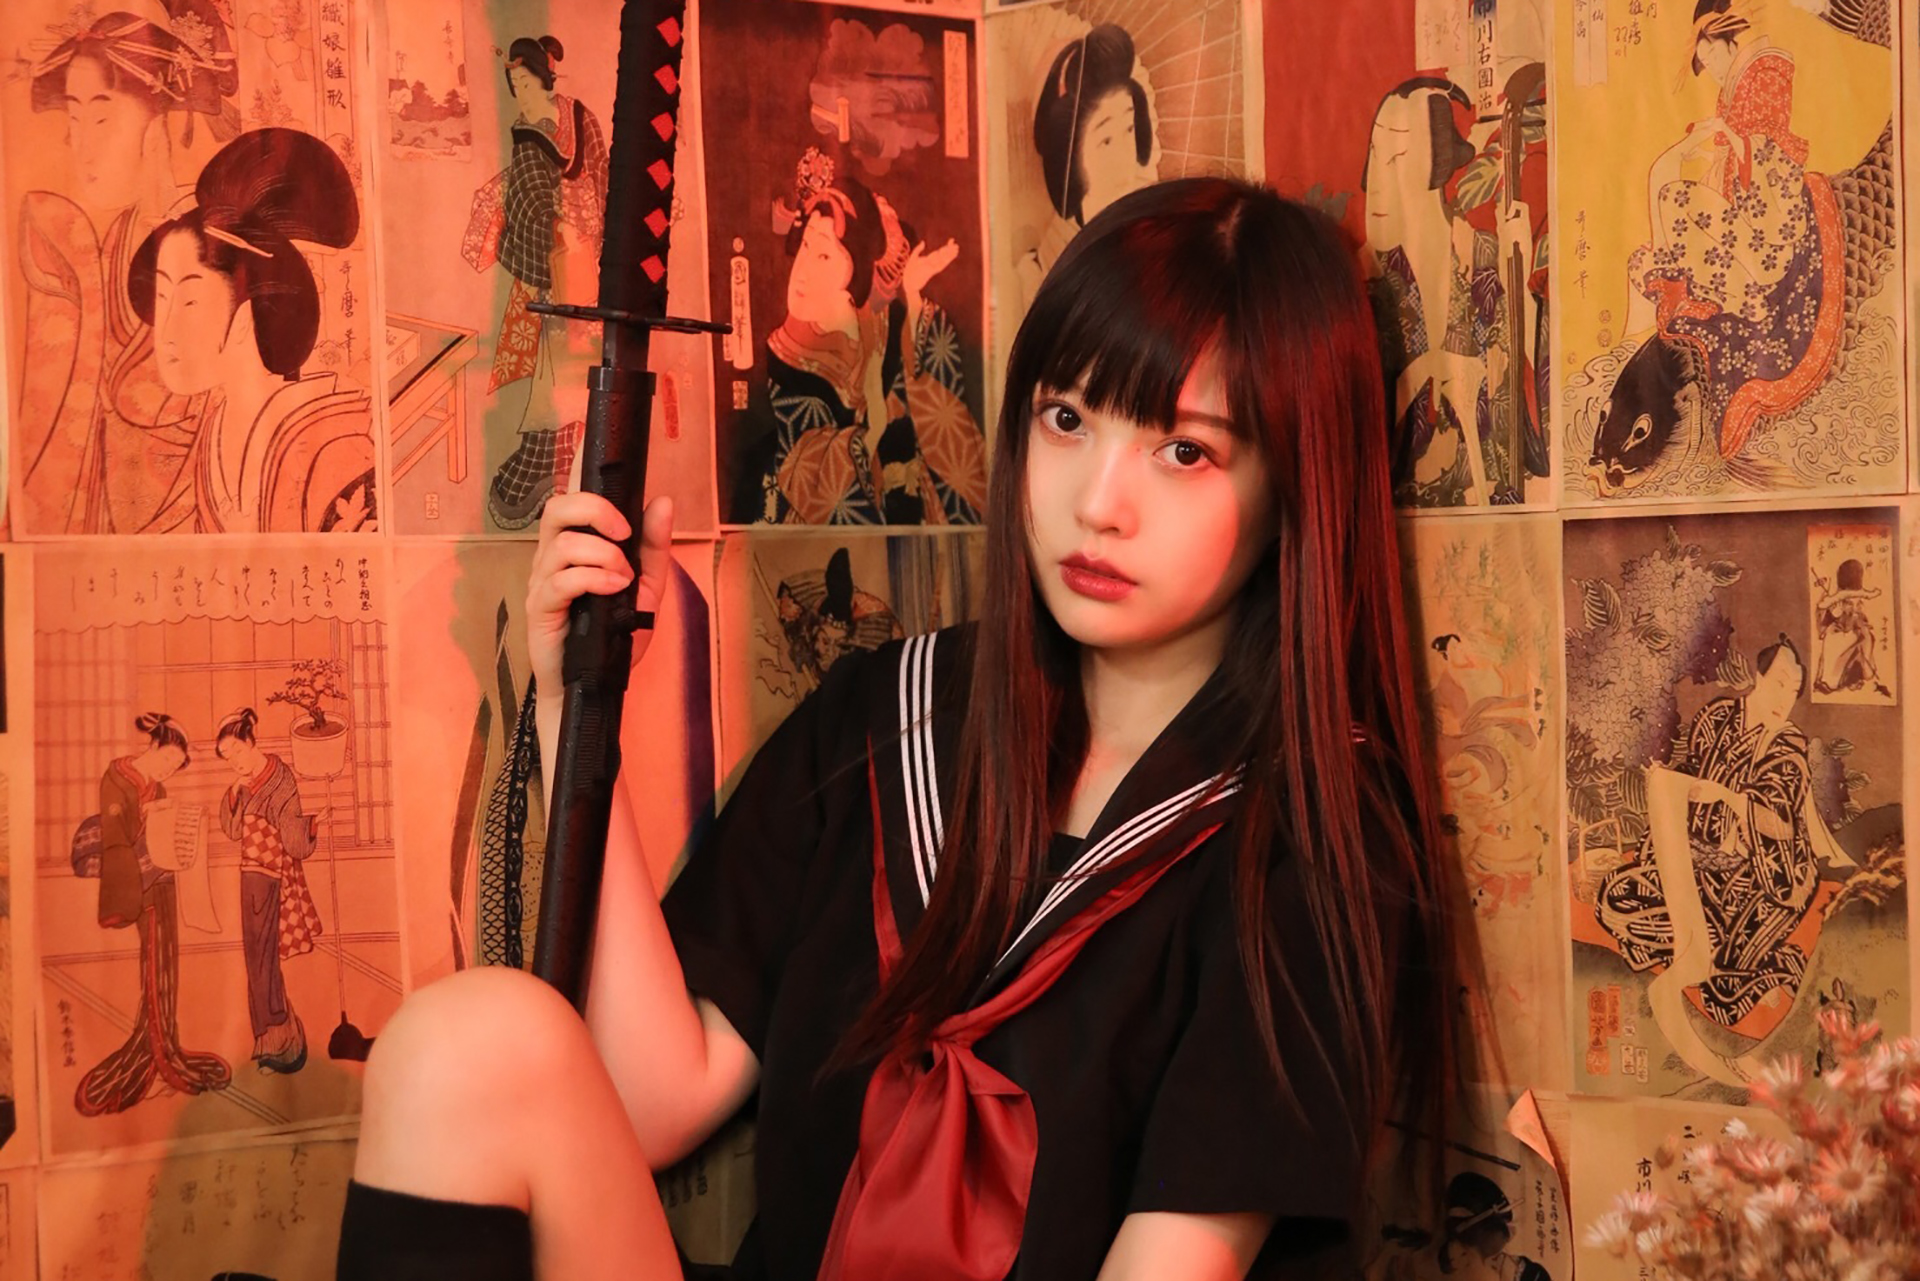
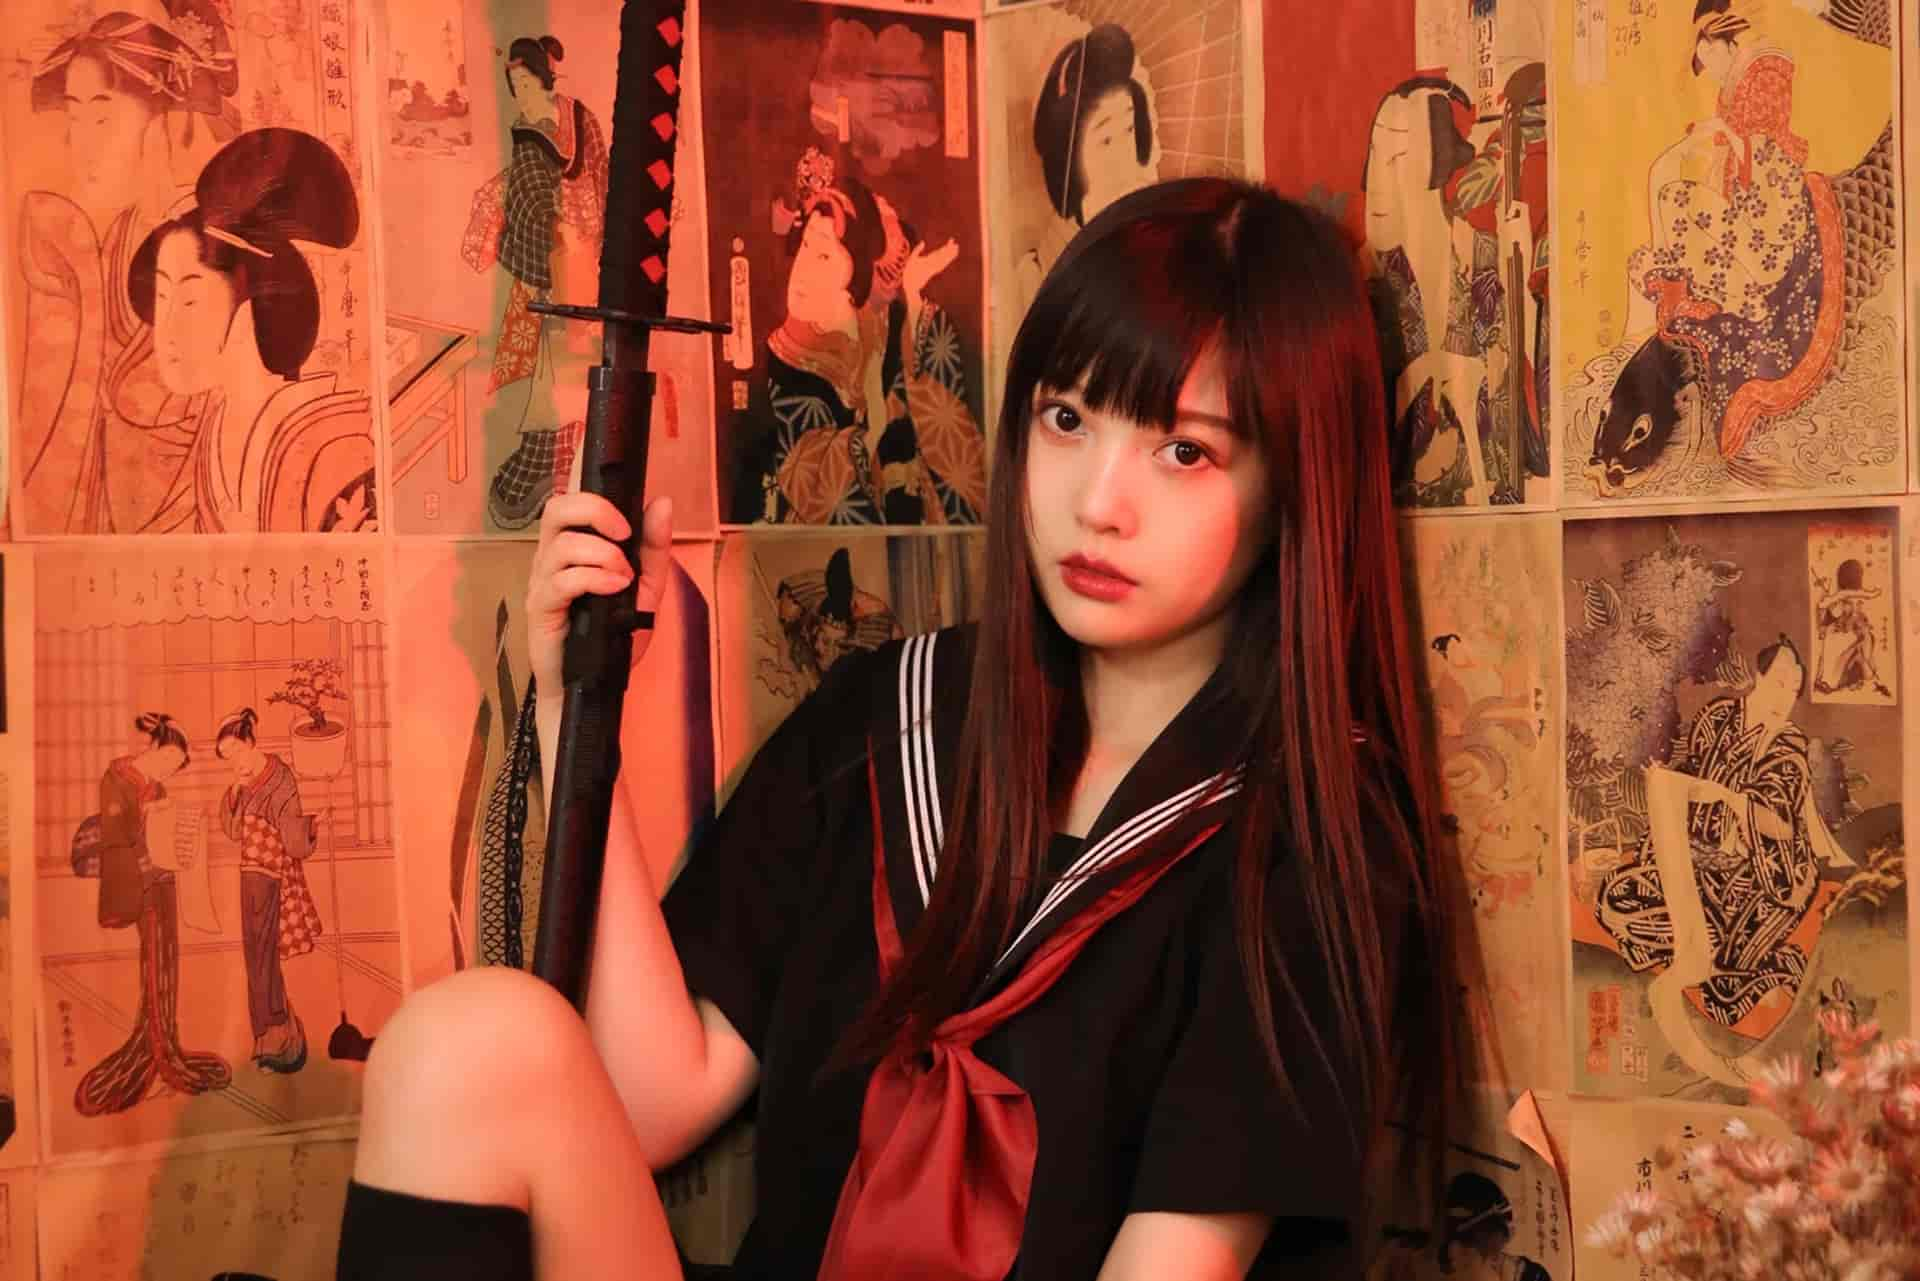
feat: 优化静态资源

Changed region(s): [[0.5625, 0.6557, 0.5938, 0.687]]

diff --git a/vite.config.ts b/vite.config.ts
@@ -2,14 +2,43 @@ import { defineConfig } from 'vite'
 import vue from '@vitejs/plugin-vue'
 import vitePluginRaw from 'vite-plugin-raw'
 import path from 'path'
+import viteImagemin from 'vite-plugin-imagemin'
 
 // https://vitejs.dev/config/
 export default defineConfig({
   base: './',
-  plugins: [vue(),
+  plugins: [
+    vue(),
     vitePluginRaw({
       match: /\.vue$/,
       exclude: [new RegExp(path.resolve(__dirname, './src'))]
-    })
-  ],
+    }),
+    viteImagemin({
+      gifsicle: {
+        optimizationLevel: 7,
+        interlaced: false,
+      },
+      optipng: {
+        optimizationLevel: 7,
+      },
+      mozjpeg: {
+        quality: 10,
+      },
+      pngquant: {
+        quality: [0.8, 0.9],
+        speed: 4,
+      },
+      svgo: {
+        plugins: [
+          {
+            name: 'removeViewBox',
+          },
+          {
+            name: 'removeEmptyAttrs',
+            active: false,
+          },
+        ],
+      },
+    }),
+  ]
 })

diff --git a/src/components/Carousel1.Demo.vue b/src/components/Carousel1.Demo.vue
@@ -1,6 +1,6 @@
 <script setup lang='ts'>
 import Carousel from '../lib/Carousel/Carousel.vue';
-import girl1 from '../assets/girl1.jpg'
+import girl1 from '../assets/girl1.png'
 import girl2 from '../assets/girl2.jpg'
 import girl3 from '../assets/girl3.jpg'
 import girl4 from '../assets/girl4.jpg'
